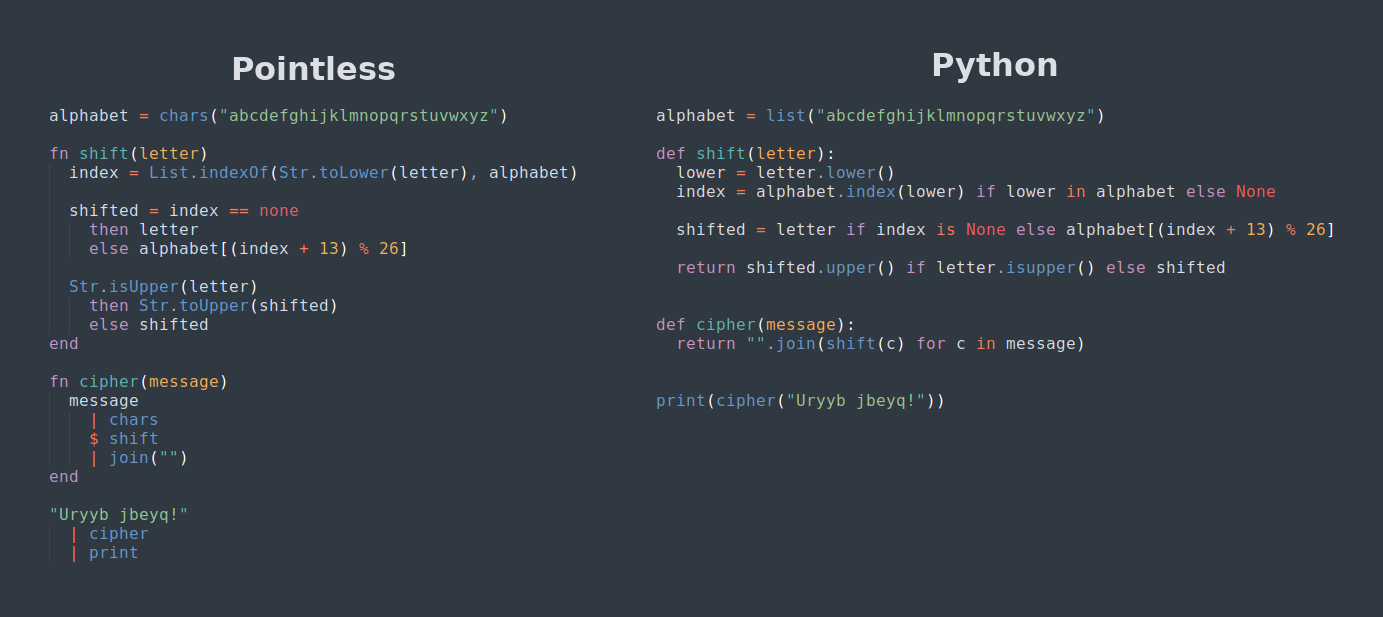
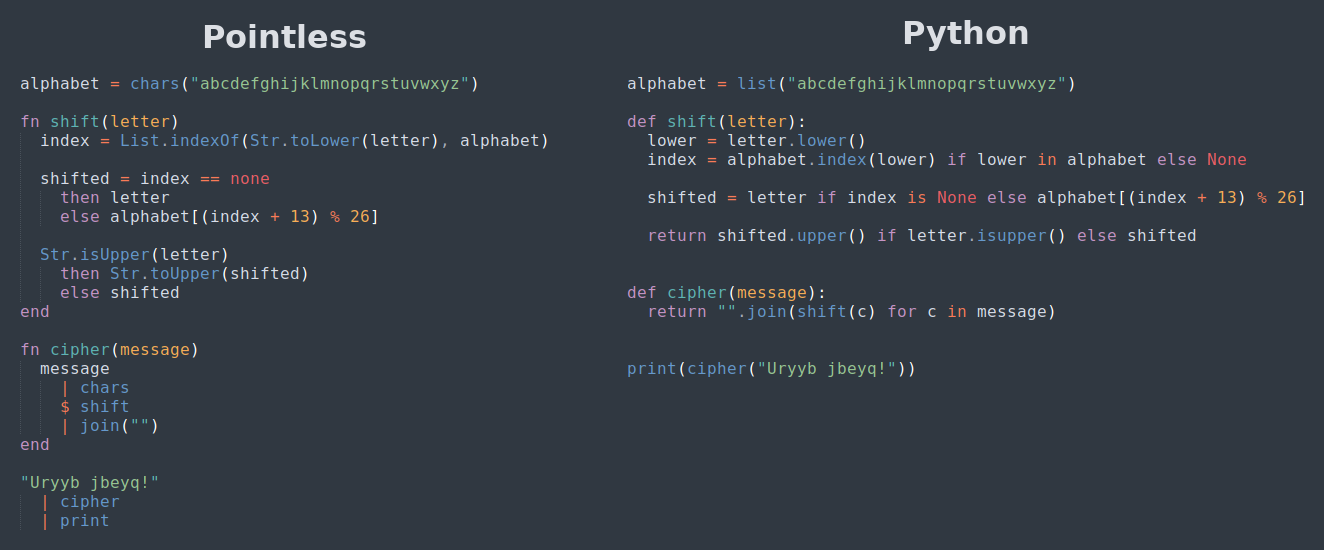
update problems

diff --git a/cs-1/00-introduction/readme.md b/cs-1/00-introduction/readme.md
@@ -66,7 +66,7 @@ Let's write some code
 ## Programming Languages
 
 In the same way that there are many spoken languages (English, Mandarin, Hindi,
-etc), there are many **aprogramming languages**. Different languages have
+etc), there are many **programming languages**. Different languages have
 different strengths and weaknesses.
 
 In this course we'll be writing our programs using **Python**, a popular,
